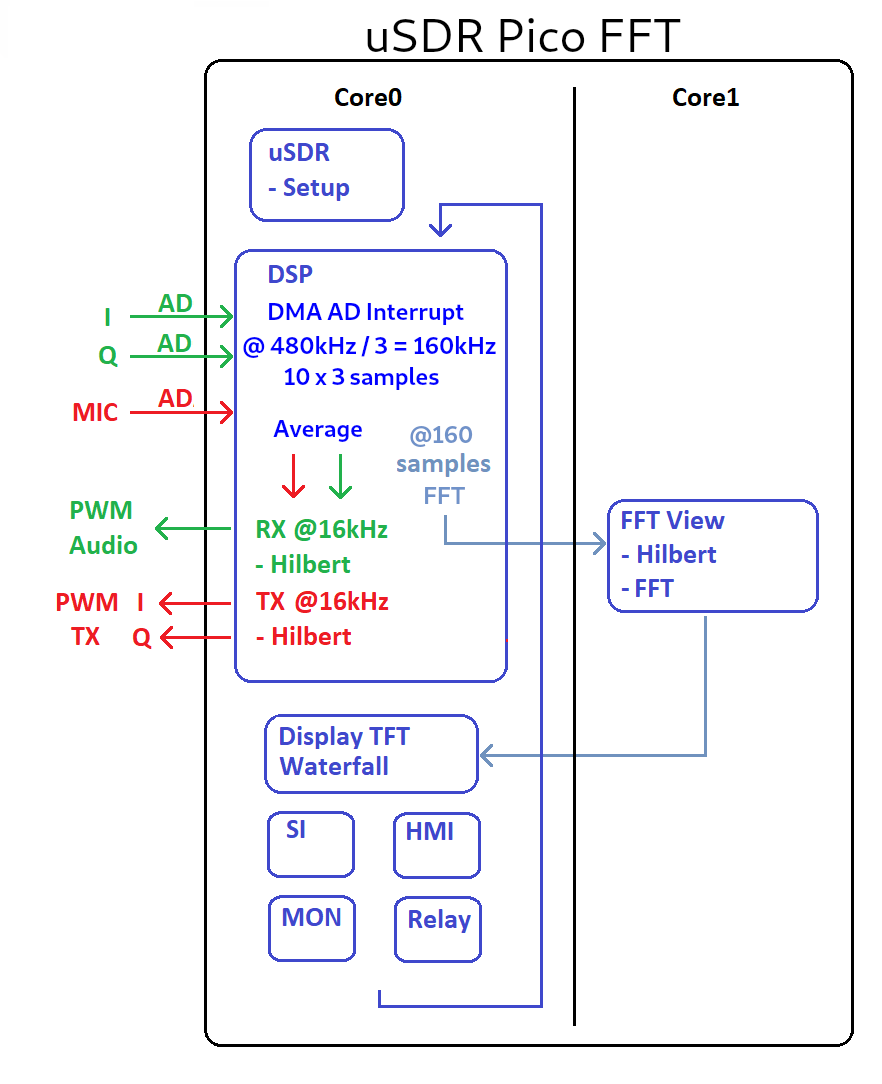
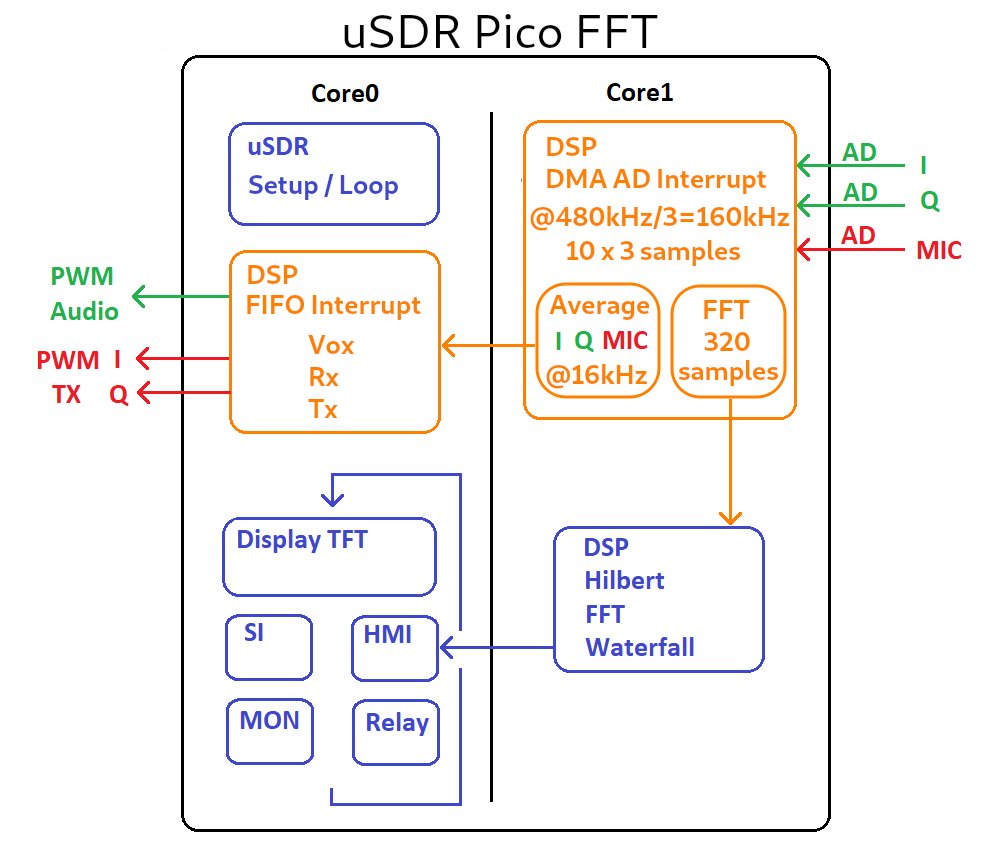
Changing Block diagram and read me file

Changed region(s): [[0.0306, 0.0, 0.9796, 0.9674]]

diff --git a/Arduino_uSDX_Pico_FFT/display_tft.h b/Arduino_uSDX_Pico_FFT/display_tft.h
@@ -9,6 +9,7 @@ extern "C" {
 
 #define ROTATION_SETUP  0
 
+//ILI9341
 #define display_WIDTH  TFT_WIDTH   //TFT_HEIGHT=240
 #define display_HEIGHT TFT_HEIGHT    //TFT_WIDTH=320
 /*

diff --git a/README.md b/README.md
@@ -4,13 +4,13 @@ Hamradio SDR transceiver software   -  by Klaus Fensterseifer - PY2KLA
 
 
 This project is based on  Arjante Marvelde / uSDR-pico, from https://github.com/ArjanteMarvelde/uSDR-pico
-I strongly recommend you to take a look there before trying to follow this one.
+ . I strongly recommend you to take a look there before trying to follow this one.
 
-My intention was to include a waterfall or panadapter to the uSDR-pico project, for this, I included a ILI9341 240x320 without touch to the project, and also, changed the software to generate the waterfall.
+My intention was to include a waterfall or panadapter to the uSDR-pico project, for this, I included a ILI9341 240x320, without touch, to the project, and also, changed the software to generate the waterfall.
 
 Initially, I have used Visual Studio, but after some considerations, I ported all code to Arduino IDE. So, to compile and run this code you need the Arduino IDE installed for a Raspberry Pi Pico project.
 
-I also, choose not to change the original software as much as possible, and focused on the waterfall implementation, mostly in the dsp.c.
+I also, chose not to change the original software as much as possible, and focused on the waterfall implementation, mostly in the dsp.c.
 
 
 Initial tests video:  https://youtu.be/0zGAnkRjizE
@@ -52,23 +52,25 @@ Arduino IDE setup and notes:
 - I am using Arduino IDE version 1.8.19 in Linux/Ubuntu
 - File > Preferences > Additional Boards Manager URLs:
   https://github.com/earlephilhower/arduino-pico/releases/download/global/package_rp2040_index.json
-- LIb: TFT_eSPI by Bodmer
-  There are some comments at beginning of  .ino  file.  I use them to "adjust" the library files to the project.
-- The board I am using is:  Arduino Mbed OS RP2040 Boards version 3.0.1 (If I update it, I will need to adjust the library files again, so I will leave it for later).
-  And the board selection is: Tools  >  Board: "RaspberryPiPico"  >  Arduino Mbed OS RP2040 Boards  >  RaspberryPiPico
-- The code files have cpp type, but the code itself is in C (cpp is used to help in some compiler issues).
+  . Install information at: https://github.com/earlephilhower/arduino-pico
+- Lib used: TFT_eSPI by Bodmer
+- There are some comments at beginning of  .ino  file.  I use them to "adjust" the library files to the project.
+- The board I am using is:  Arduino Mbed OS RP2040 Boards, version 3.0.1 (If I update it, I will need to adjust the library files again, so I will leave it for later).
+- The board selection is: Tools  >  Board: "RaspberryPiPico"  >  Arduino Mbed OS RP2040 Boards  >  RaspberryPiPico
+- The code files have cpp type, but the code itself is in C (cpp type is used to help in some compiler issues).
 
 Hardware, changes and notes:
 - Inclusion of ILI9341 on free pins, using SPI1, and removing the LCD display.
 - I noticed that changing the signal in one ADC input, changes the other inputs signal through the resistors for setting half Vref. To solve this, I changed the circuit to have a separate resistor divider for each ADC input.
-- Use input/output filters for Nyquist considerations (see above).
+- Use input/output filters for Nyquist considerations (see above). 
+- Obs.: at the initial test video, I used only the RC output filter shown in the schematic, and for input filter, only what is already inside of the Softrock RXTX Ensemble.
 
 
 To do list:
 - There is some noise on ADC readings with nothing connected, so I will try some capacitors on Vref and each ADC input.
 - I removed the AGC during tests, it needs to be uncommented in the code.
 - Search why the signal level meter is not working on the display.
-- Write to the display only when something changes
-- Tests: reception/transmission SSB...  menus...  switches...   display appearance
+- Write to the display only when something changes.
+- Tests: reception/transmission SSB...  menus...  switches/debounce...   display appearance
 - Try to improve the suppression of not desired audio and waterfall bands
 
